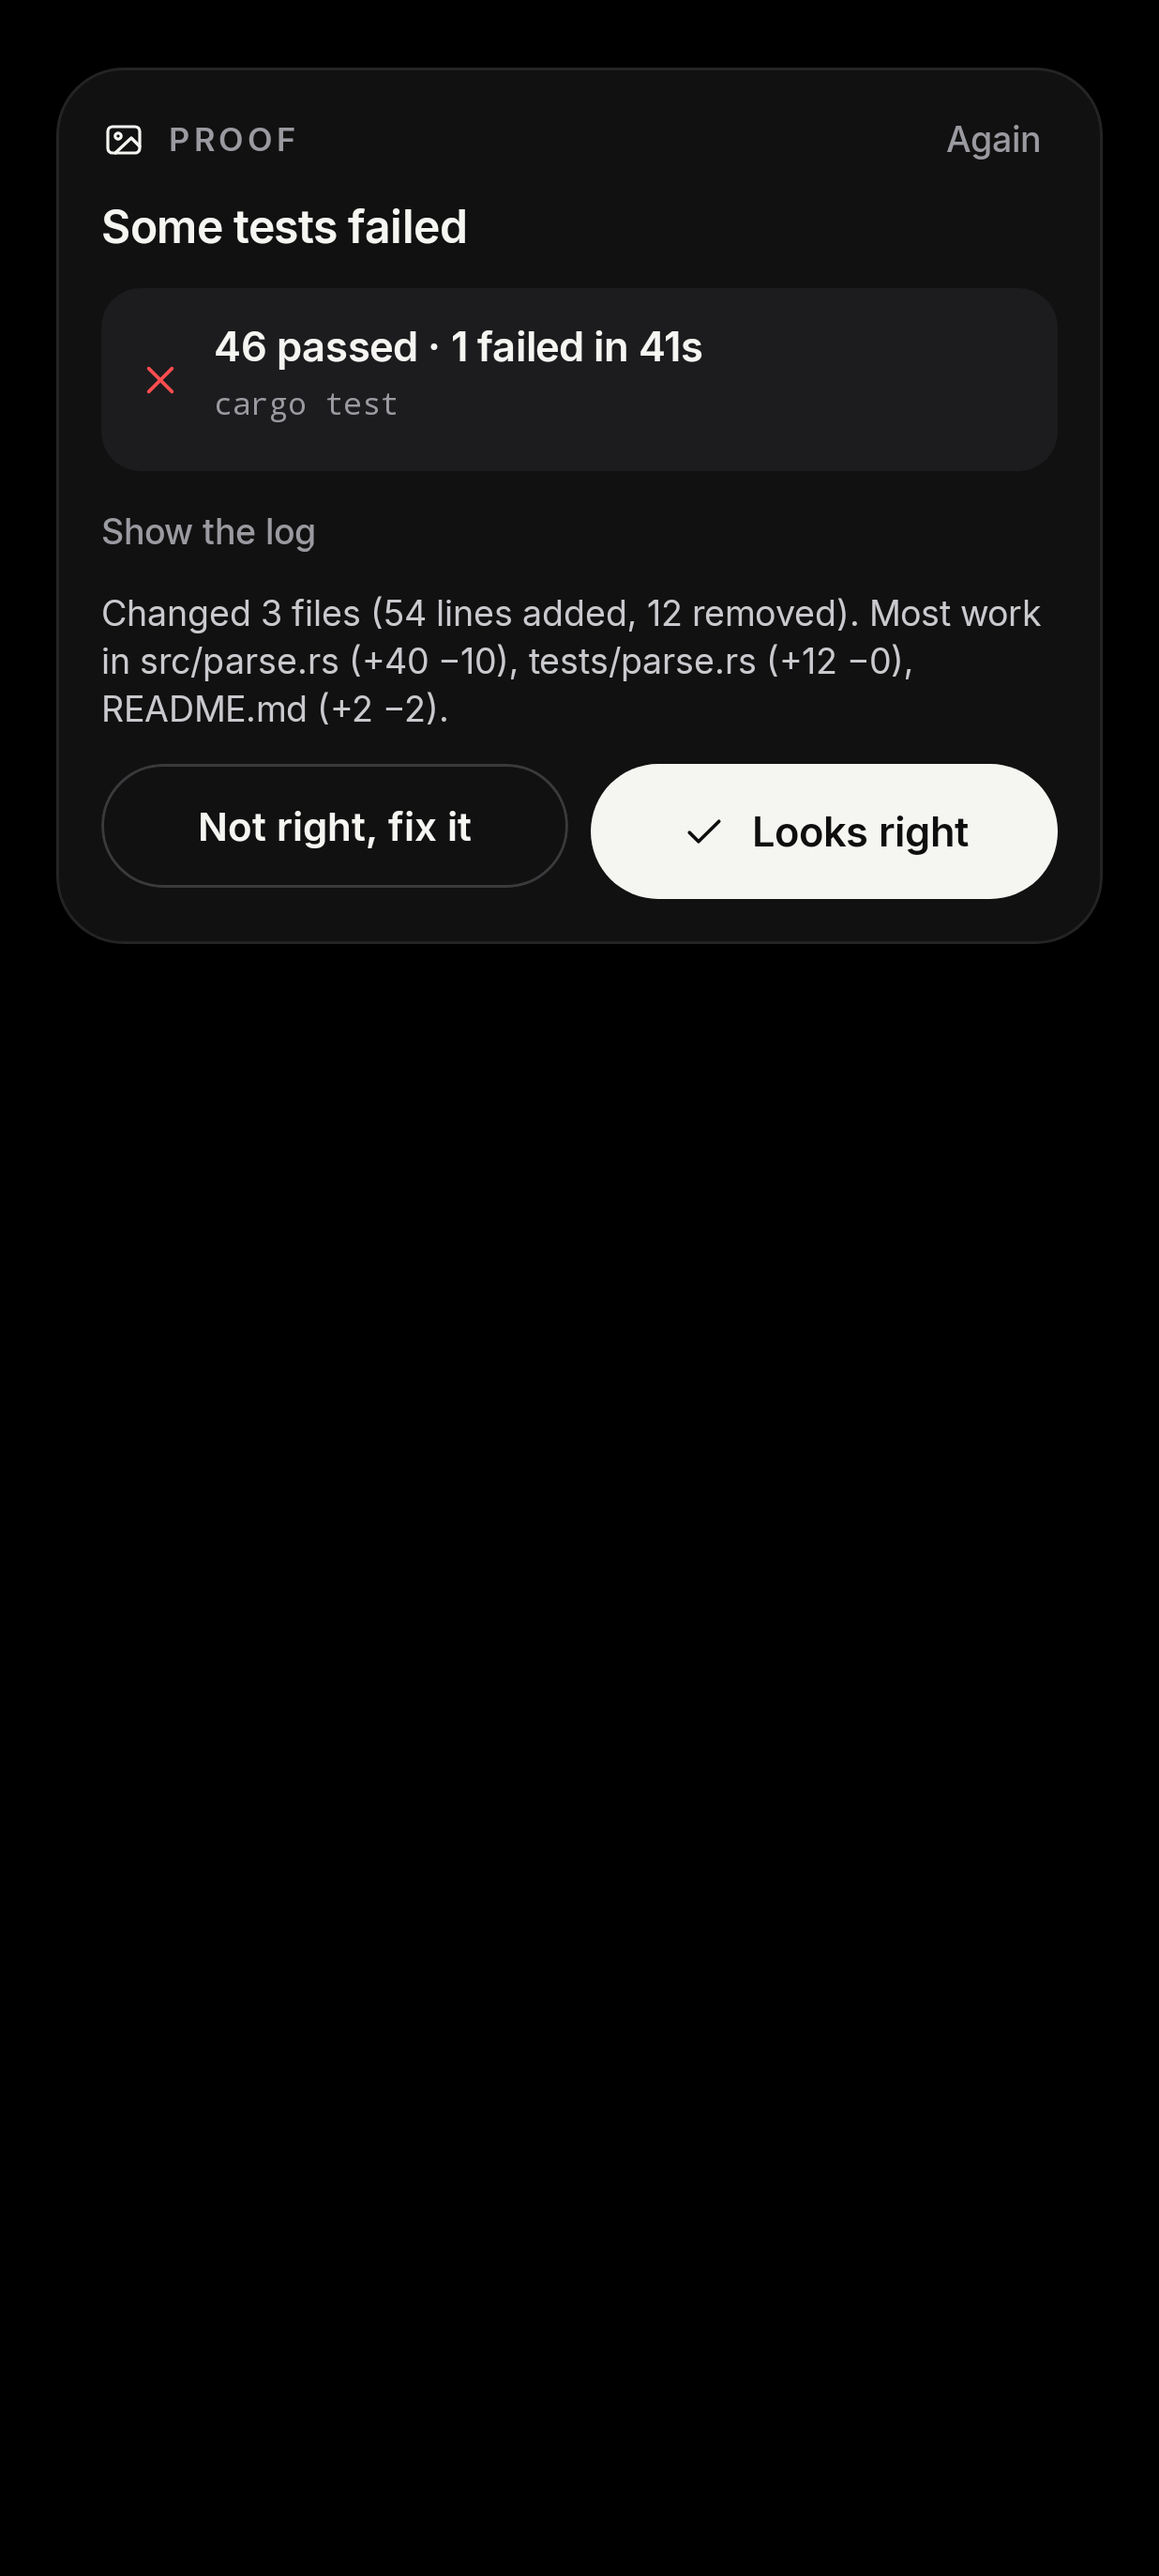
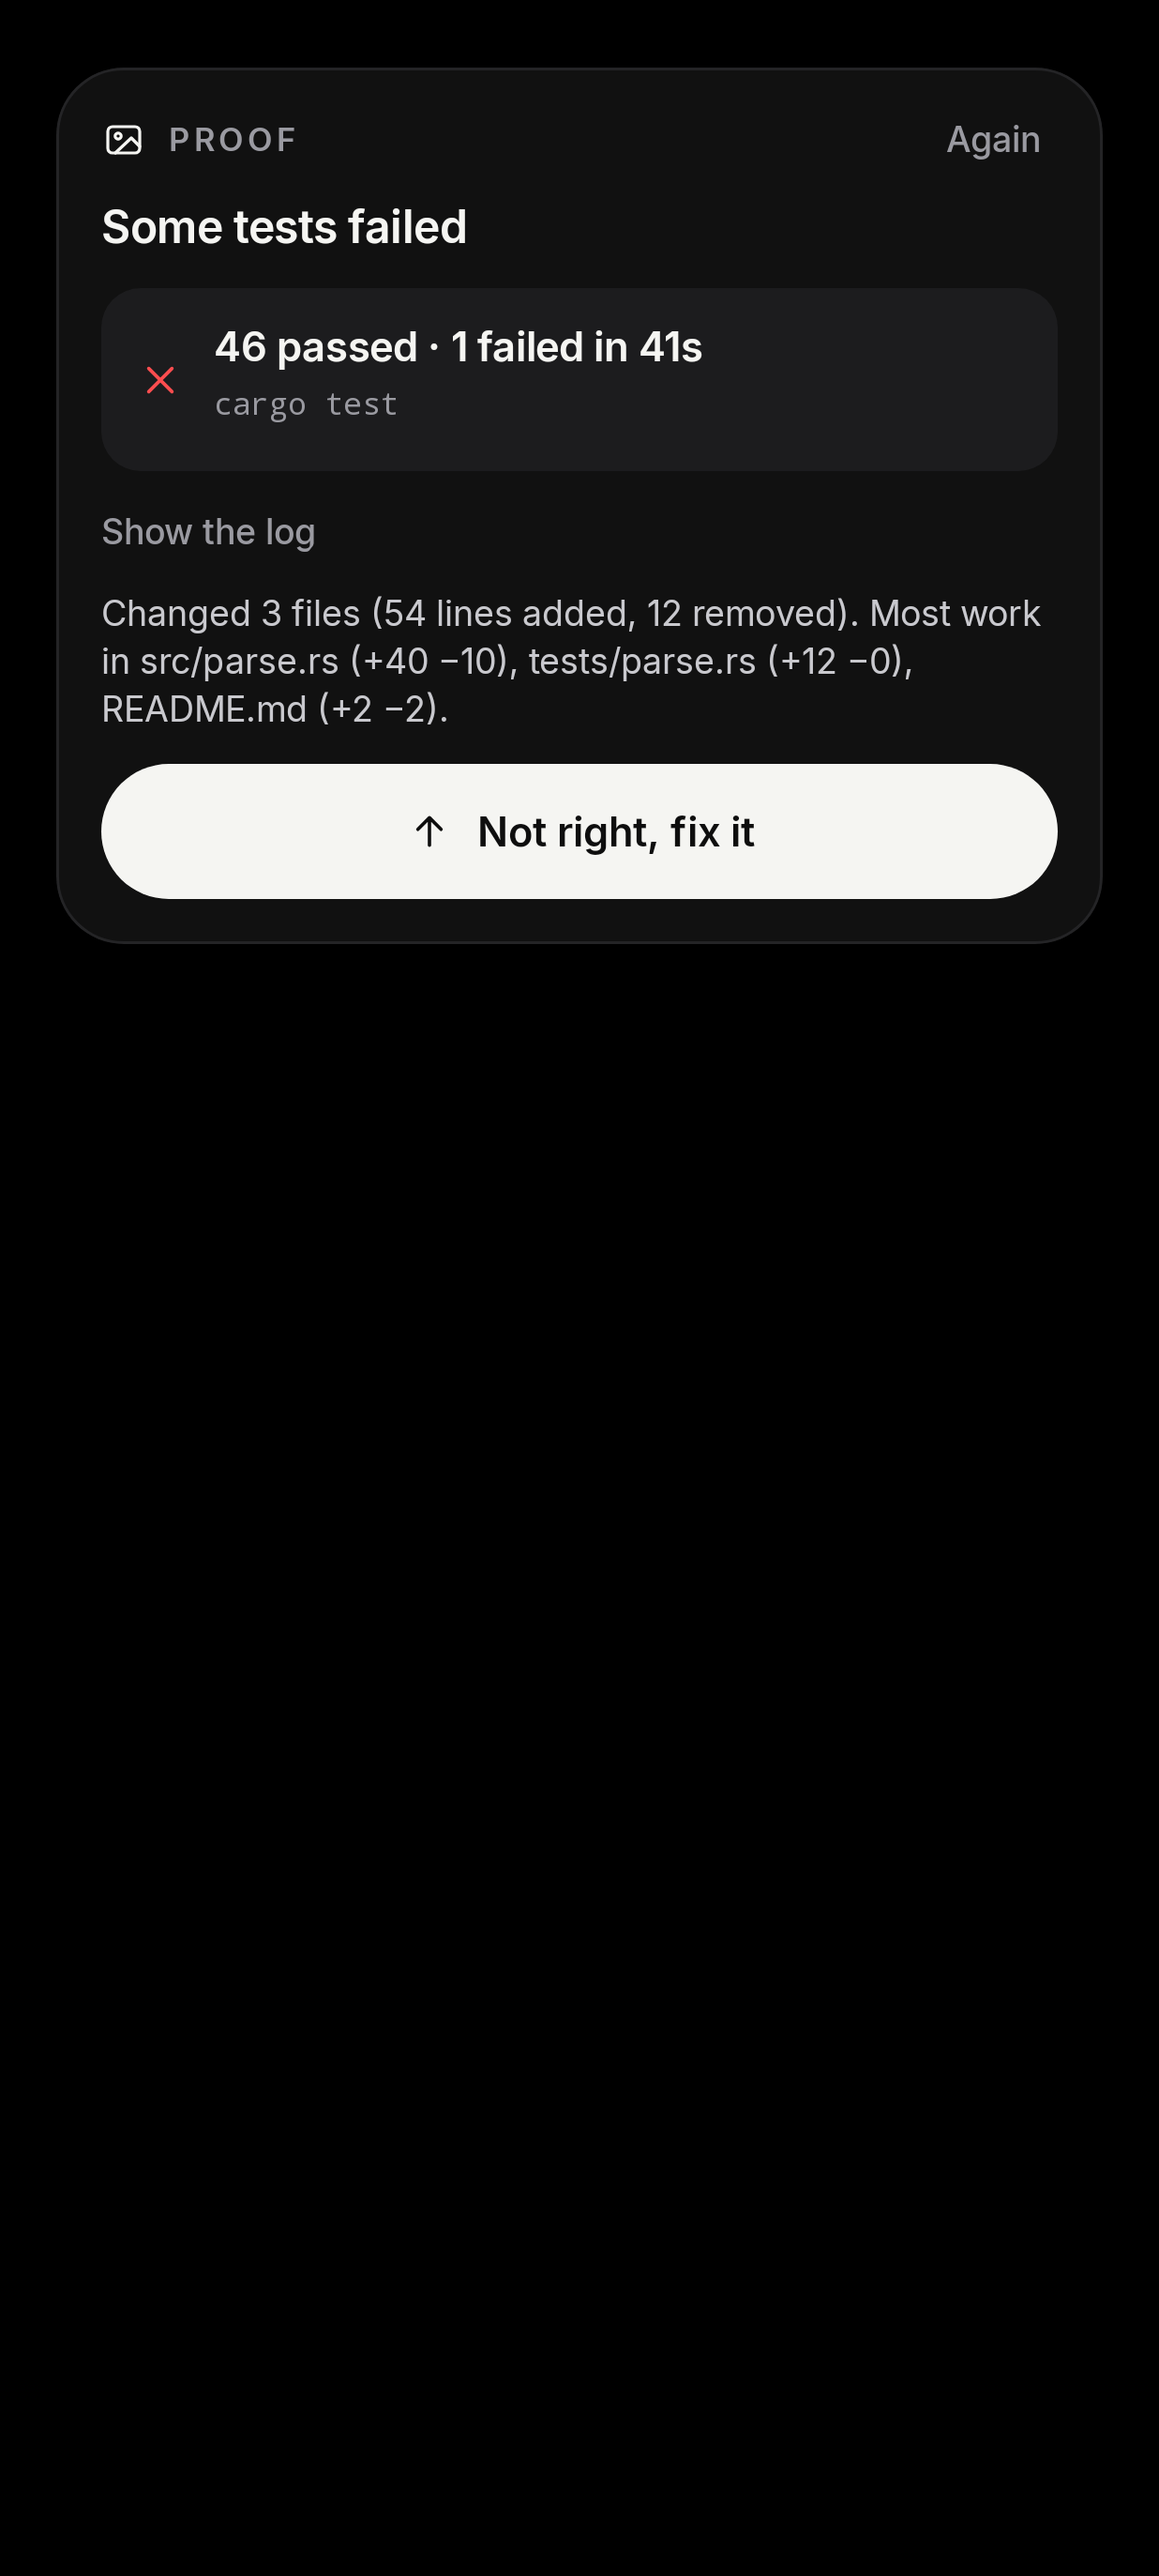
Proof card: only 'Not right, fix it' when tests failed; note box scrolls and send stays visible above the keyboard; screenshots

Changed region(s): [[0.0922, 0.2787, 0.5534, 0.3716], [0.5841, 0.3097, 0.8301, 0.3406]]

diff --git a/apps/android/app/src/main/java/com/ragul84/hypurr/ui/screens/ProofCard.kt b/apps/android/app/src/main/java/com/ragul84/hypurr/ui/screens/ProofCard.kt
@@ -5,6 +5,13 @@ import androidx.compose.foundation.background
 import androidx.compose.foundation.border
 import androidx.compose.foundation.gestures.detectHorizontalDragGestures
 import androidx.compose.foundation.gestures.detectTapGestures
+import androidx.compose.foundation.ExperimentalFoundationApi
+import androidx.compose.foundation.relocation.BringIntoViewRequester
+import androidx.compose.foundation.relocation.bringIntoViewRequester
+import androidx.compose.foundation.rememberScrollState
+import androidx.compose.foundation.verticalScroll
+import androidx.compose.foundation.layout.imePadding
+import androidx.compose.ui.platform.testTag
 import androidx.compose.foundation.layout.Arrangement
 import androidx.compose.foundation.layout.Box
 import androidx.compose.foundation.layout.BoxWithConstraints
@@ -69,6 +76,10 @@ fun testLine(passed: Int, failed: Int, seconds: Int): String =
         if (failed > 0) append(" · $failed failed")
         if (seconds > 0) append(" in ${if (seconds >= 60) "${seconds / 60}m ${seconds % 60}s" else "${seconds}s"}")
     }
+
+/** Which verdict buttons a ready proof offers: no "Looks right" when tests failed. */
+fun verdictActions(p: Proof): List<String> =
+    if (p.tests?.let { it.failed > 0 } == true) listOf("Not right, fix it") else listOf("Not right, fix it", "Looks right")
 
 /** The card's title for each kind of proof. */
 fun proofTitle(p: Proof): String = when {
@@ -284,6 +295,7 @@ private fun Tag(text: String, modifier: Modifier) {
         modifier = modifier.padding(8.dp).clip(RoundedCornerShape(50)).background(Overlay).padding(horizontal = 8.dp, vertical = 3.dp))
 }
 
+@OptIn(ExperimentalFoundationApi::class)
 @Composable
 private fun Verdict(proof: Proof, onVerdict: (Boolean, String) -> Unit, initialFixing: Boolean, initialFeedback: String) {
     val c = Hypurr.colors
@@ -298,15 +310,24 @@ private fun Verdict(proof: Proof, onVerdict: (Boolean, String) -> Unit, initialF
         return
     }
     if (fixing) {
+        // The note box stays short and scrolls inside; the buttons are kept in view above the keyboard.
+        val keep = remember { BringIntoViewRequester() }
+        LaunchedEffect(text, fixing) { keep.bringIntoView() }
         val style = MaterialTheme.typography.bodyMedium.copy(color = c.text)
-        Box(Modifier.fillMaxWidth().heightIn(min = 72.dp).clip(RoundedCornerShape(14.dp)).background(c.surface2).padding(12.dp)) {
-            if (text.isEmpty()) Text("What's wrong? (optional) e.g. the button is cut off on small phones", color = c.tertiary, style = style)
-            BasicTextField(text, { text = it }, Modifier.fillMaxWidth(), textStyle = style, cursorBrush = SolidColor(c.text))
+        Column(Modifier.fillMaxWidth().imePadding(), verticalArrangement = Arrangement.spacedBy(12.dp)) {
+            Box(Modifier.fillMaxWidth().heightIn(min = 72.dp, max = 140.dp).clip(RoundedCornerShape(14.dp)).background(c.surface2)
+                .verticalScroll(rememberScrollState()).padding(12.dp)) {
+                if (text.isEmpty()) Text("What's wrong? (optional) e.g. the button is cut off on small phones", color = c.tertiary, style = style)
+                BasicTextField(text, { text = it }, Modifier.fillMaxWidth().testTag("proof-note"), textStyle = style, cursorBrush = SolidColor(c.text))
+            }
+            Row(Modifier.bringIntoViewRequester(keep), horizontalArrangement = Arrangement.spacedBy(8.dp)) {
+                SoftButton("Cancel", Modifier.weight(1f)) { fixing = false }
+                PrimaryButton("Send to agent", Modifier.weight(1f), icon = signalIcon(SignalIcons.Send)) { onVerdict(false, text.trim()) }
+            }
         }
-        Row(horizontalArrangement = Arrangement.spacedBy(8.dp)) {
-            SoftButton("Cancel", Modifier.weight(1f)) { fixing = false }
-            PrimaryButton("Send to agent", Modifier.weight(1f), icon = signalIcon(SignalIcons.Send)) { onVerdict(false, text.trim()) }
-        }
+    } else if (verdictActions(proof).size == 1) {
+        // Tests failed: the only honest choice is to send it back.
+        PrimaryButton("Not right, fix it", Modifier.fillMaxWidth(), icon = signalIcon(SignalIcons.Send)) { fixing = true }
     } else {
         Row(horizontalArrangement = Arrangement.spacedBy(8.dp)) {
             SoftButton("Not right, fix it", Modifier.weight(1f)) { fixing = true }
@@ -314,7 +335,6 @@ private fun Verdict(proof: Proof, onVerdict: (Boolean, String) -> Unit, initialF
         }
     }
 }
-
 
 /** Labels and the slider handle sit on screenshots, so they keep one look in light and dark. */
 private val Overlay = Color(0xCC111111)

diff --git a/apps/android/app/src/test/java/com/ragul84/hypurr/ui/screens/ProofScreenshotTest.kt b/apps/android/app/src/test/java/com/ragul84/hypurr/ui/screens/ProofScreenshotTest.kt
@@ -1,5 +1,7 @@
 package com.ragul84.hypurr.ui.screens
 
+import androidx.compose.ui.test.assertIsDisplayed
+import androidx.compose.ui.test.onNodeWithText
 import android.graphics.Bitmap
 import android.graphics.Canvas
 import android.graphics.Paint
@@ -140,6 +142,19 @@ class ProofScreenshotTest {
                 summary = "Changed 1 file (4 lines added, 1 removed). Most work in app/page.tsx (+4 −1).",
                 log = "after: the dev server didn't start within 90 seconds."))
         }
+    }
+
+    @Test fun fixItLongNote() {
+        shoot("proof-fix-long") { chat { ProofCard(web, images, initialFixing = true, initialFeedback = List(12) { "Line ${it + 1}: the trial button is too wide and the price wraps." }.joinToString("\n")) } }
+        compose.onNodeWithText("Send to agent").assertIsDisplayed()
+    }
+
+    @Test fun testsPassed() = shoot("proof-tests-passed") { ProofCardAlone { ProofCard(tests.copy(tests = tests.tests!!.copy(ok = true, failed = 0))) } }
+
+    @Test fun failedTestsOfferOnlyFixIt() {
+        assertEquals(listOf("Not right, fix it"), verdictActions(tests))
+        assertEquals(listOf("Not right, fix it", "Looks right"), verdictActions(tests.copy(tests = tests.tests!!.copy(failed = 0))))
+        assertEquals(listOf("Not right, fix it", "Looks right"), verdictActions(web))
     }
 
     @Test fun wording() {
